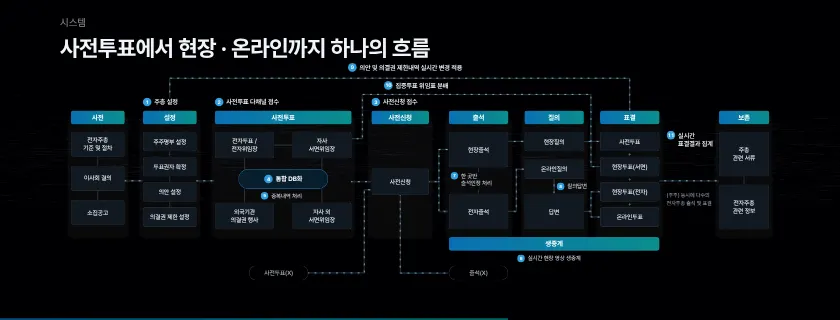
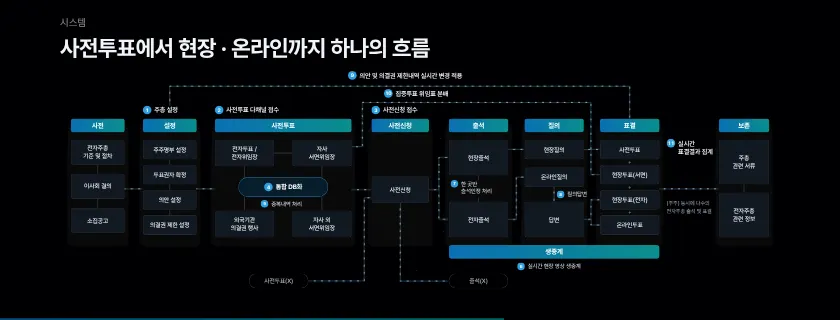
세션4 K19b 가운데 X 흰색, K22s 구성도 40px 아래로
Claude-Session: https://claude.ai/code/session_01Mn7NmyW5iujmmHnaRBFKBZ

diff --git a/sw.js b/sw.js
@@ -1,5 +1,5 @@
 /* 오프라인 캐시 — 온라인 주소(https)로 한 번 열면 모든 파일을 저장해 두고, 통신이 끊겨도 저장본으로 동작합니다. */
-const V='seminar-screen-11272107';
+const V='seminar-screen-11272108';
 const FILES=["./","assets/KakaoBigSans-Bold.woff2","assets/KakaoBigSans-Regular.woff2","assets/KakaoSmallSans-Bold.woff2","assets/KakaoSmallSans-Light.woff2","assets/KakaoSmallSans-Regular.woff2","assets/OrbitControls.js","assets/PretendardVariable.woff2","assets/attendees.js","assets/blue-bloom.html","assets/cong1.webp","assets/cong2.webp","assets/ds-bg.html","assets/four-states.html","assets/intro.mp4","assets/irk-white.svg","assets/irk-wordmark-white.svg","assets/kism-intro.mp4","assets/kism-white.svg","assets/ksmp-white.svg","assets/panel.js","assets/qa-online.js","assets/s2/img1.png","assets/s2/img2.png","assets/s2/img3.png","assets/s2/img4.png","assets/s4/aws.webp","assets/s4/callcenter.webp","assets/s4/chair-1.webp","assets/s4/chair-2.webp","assets/s4/chair-3.webp","assets/s4/conexus-word.webp","assets/s4/ctl-1.webp","assets/s4/cx-1.webp","assets/s4/cx-2.webp","assets/s4/cx-3.webp","assets/s4/cx-flow.mp4","assets/s4/cx-pop1.webp","assets/s4/cx-pop2.webp","assets/s4/cx-vote.mp4","assets/s4/cx-vote.webp","assets/s4/cxs-1.webp","assets/s4/insurance.webp","assets/s4/isms-t.webp","assets/s4/isms.webp","assets/s4/ismsp-t.webp","assets/s4/ismsp.webp","assets/s4/kosmos-white.png","assets/s4/ks-1.webp","assets/s4/ks-2.webp","assets/s4/ks-3.webp","assets/s4/ks-4.webp","assets/s4/ks-5.webp","assets/s4/ks-video.webp","assets/s4/live-1.webp","assets/s4/live-2.webp","assets/s4/live-3.webp","assets/s4/live-4.webp","assets/s4/live-5.webp","assets/s4/live-6.webp","assets/s4/live-7.webp","assets/s4/live-8.webp","assets/s4/logos.webp","assets/s4/ocr-1.webp","assets/s4/ocr-2.webp","assets/s4/ocr-3.webp","assets/s4/ocr-4.webp","assets/s4/ocr-5.webp","assets/s4/on-1.png","assets/s4/on-2.webp","assets/s4/on-3.webp","assets/s4/on-4.png","assets/s4/on-5.webp","assets/s4/onboard-1.webp","assets/s4/onboard-2.webp","assets/s4/privacy.webp","assets/s4/proxymity.svg","assets/s4/rehearsal.webp","assets/s4/streaming-korea.webp","assets/s4/tab-1.webp","assets/s4/tab-2.webp","assets/s4/team.webp","assets/sched.js","assets/screen-title-2.svg","assets/screen-title-b-text.svg","assets/screen-title-b.svg","assets/seat-banners.js","assets/seat-fascia.js","assets/seat-screen.js","assets/seatmap.js","assets/service-intro.mp4","assets/speaker-scott.webp","assets/speaker1-1.webp","assets/speaker2.webp","assets/speaker3-1.webp","assets/supabase.min.js","assets/three.min.js","assets/title-logos.svg","control.html","index-fs.html","index.html","kism.html","lobby/cuts.html","lobby/index.html","mc.html","session2.html","session4.html","sw.js","tools/s2_build.py","tools/s2_shell.html","assets/s3/p01.webp","assets/s3/p02.webp","assets/s3/p03.webp","assets/s3/p04.webp","assets/s3/p05.webp","assets/s3/p06.webp","assets/s3/p07.webp","assets/s3/p08.webp","assets/s3/p09.webp","assets/s3/p10.webp","assets/s3/p11.webp","assets/s3/p12.webp","assets/s3/p13.webp","assets/s3/p14.webp","assets/s3/p15.webp","assets/s3/p16.webp","assets/s3/p17.webp","assets/s3/p18.webp","assets/s3/p19.webp","assets/s3/p20.webp","assets/s3/p21.webp","assets/s3/p22.webp","assets/s3/p23.webp","assets/kism/photo-main.webp","assets/kism/photo-2.webp","assets/kism/photo-3.webp","assets/kism/photo-4.webp","assets/sound/countdown-tick.mp3","assets/sound/sfx-s3-part.mp3","assets/sound/sfx-s4-reveal.mp3","assets/sound/sfx-s5-proxymity.mp3","assets/sound/sfx-s6-chime.mp3","assets/sound/sfx-s7-close.mp3","assets/sound/opening-hit.mp3","assets/s4/kosmos-color.svg","assets/s4/ke-logo.png","assets/s4/ke-live.mp4","assets/kism/kwon-talk.mp4","assets/kism/manual-book.webp","kism-open.html","kism_16x9.html","led.html","assets/s4/cx-ops.mp4","assets/s4/cx-ops.webp","assets/s4/agent-app.mp4","assets/s4/kosmos-web.webp","assets/s4/ks-attend.mp4","assets/s4/ks-attend.webp","assets/s4/ks-switch.mp4","assets/s4/ks-switch.webp","assets/s4/ks-notify.mp4","assets/s4/ks-notify.webp","assets/s4/ks-vote.mp4","assets/s4/ks-vote.webp","assets/s4/ks-qna.mp4","assets/s4/ks-qna.webp","assets/s4/pc-map.webp","assets/s4/pc-map.mp4","assets/s4/agent-app.webp","assets/s4/k24b-bg.webp","session0.html","face.html","assets/face-link.js","assets/kism/photo-main-cut.webp","assets/s4/cx-chair.mp4","assets/s4/cx-chair.webp","assets/s4/cx-test.mp4","assets/s4/cx-test.webp","assets/s4/onboard-mgr.webp","assets/s4/proxymity-logo.png","assets/s4/k21-bg.webp","assets/s4/kosmos-admin-white.svg","assets/kism-intro-16x9.mp4","assets/seat-guide.html","assets/s4/app-icon-agent.svg","assets/ds-main.mp4","assets/s4/k2-agency.webp","assets/s4/k2-support.webp","assets/s4/thumbs/K00.webp","assets/s4/thumbs/K01.webp","assets/s4/thumbs/K02.webp","assets/s4/thumbs/K03.webp","assets/s4/thumbs/K04.webp","assets/s4/thumbs/K05.webp","assets/s4/thumbs/K06.webp","assets/s4/thumbs/K07.webp","assets/s4/thumbs/K08.webp","assets/s4/thumbs/K09.webp","assets/s4/thumbs/K10.webp","assets/s4/thumbs/K11.webp","assets/s4/thumbs/K12.webp","assets/s4/thumbs/K13.webp","assets/s4/thumbs/K14.webp","assets/s4/thumbs/K15.webp","assets/s4/thumbs/K16.webp","assets/s4/thumbs/K17.webp","assets/s4/thumbs/K18a.webp","assets/s4/thumbs/K18b.webp","assets/s4/thumbs/K18c.webp","assets/s4/thumbs/K19.webp","assets/s4/thumbs/K19b.webp","assets/s4/thumbs/K19c.webp","assets/s4/thumbs/K20.webp","assets/s4/thumbs/K21.webp","assets/s4/thumbs/K21b.webp","assets/s4/thumbs/K22s.webp","assets/s4/thumbs/K23.webp","assets/s4/thumbs/K23b.webp","assets/s4/thumbs/K24a.webp","assets/s4/thumbs/K24b.webp","assets/s4/thumbs/K24c.webp","assets/s4/thumbs/K25.webp","assets/s4/thumbs/K25b.webp","assets/s4/thumbs/K26.webp","assets/s4/thumbs/K27.webp","assets/s4/thumbs/K28a.webp","assets/s4/thumbs/K28b.webp","assets/s4/thumbs/K28c.webp","assets/s4/thumbs/K28d.webp","assets/s4/thumbs/K29.webp","assets/s4/thumbs/K30.webp","assets/s4/thumbs/K09b.webp","assets/s4/thumbs/K28e.webp","assets/s4/thumbs/K28p.webp","assets/s4/onsite-vote.mp4","assets/s4/onsite-vote.webp","assets/s4/rehearsal-site.webp","assets/qr-ask.svg"];
 self.addEventListener('install',e=>{e.waitUntil(caches.open(V).then(c=>c.addAll(FILES)).then(()=>self.skipWaiting()));});
 self.addEventListener('activate',e=>{e.waitUntil(caches.keys().then(ks=>Promise.all(ks.filter(k=>k!==V).map(k=>caches.delete(k)))).then(()=>self.clients.claim()));});

diff --git a/session4.html b/session4.html
@@ -2015,6 +2015,8 @@ html.r169 #K27 .sec-c{--k27y:560px}
 #K19b .cf{font-size:40px}
 /* 11/27 21:06 K11 x축 날짜 숫자 70px */
 #K11 .day{font-size:70px}
+/* 11/27 21:08 K22s 시스템 구성도 40px 더 아래로 */
+#K22s .zw{translate:0 80px}
 /* ═════ 16:9 버전 (?a=16x9, 11/27) ═════
    ※ 빔프로젝터(led.html?a=16x9) M7-7이 이 모드를 씀. 장을 고치면 ?a=16x9로도 확인하고, 21:8 원본 위치를 바꾸면 아래 html.r169 #Kxx 규칙도 같이 맞출 것.
       R169Z(묶음 축소) 장은 내용 범위를 자동으로 재서 배치하므로 대부분 따라감.
@@ -2984,9 +2986,9 @@ VIZ.kr24=(cv)=>{const g=cv.getContext('2d'),W=cv.width,H=cv.height;let t0=0;
 VIZ.xs=(cv)=>{const g=cv.getContext("2d"),W=cv.width,H=cv.height,N=380;/* K19b 인트로 × — K21 ∞처럼 점 입자가 X 두 획을 따라 흐름(파랑 → 청록) */
  const P=[...Array(N)].map((_,i)=>({k:i%2,u:Math.random(),o:(Math.random()-.5)*2,s:.002+Math.random()*.003,r:3+Math.random()*5.5}));
  const pt=(k,u)=>{const m=W*.16;return k?[m+(W-2*m)*u,m+(H-2*m)*u]:[W-m-(W-2*m)*u,m+(H-2*m)*u];};
- return{enter(){},draw(){g.clearRect(0,0,W,H);g.globalAlpha=.22;g.strokeStyle='#3aa0ea';g.lineWidth=4;g.lineCap='round';
+ return{enter(){},draw(){g.clearRect(0,0,W,H);g.globalAlpha=.22;g.strokeStyle='#F2F5FA';g.lineWidth=4;g.lineCap='round';
   for(const k of [0,1]){const[a,b]=pt(k,0),[c,d]=pt(k,1);g.beginPath();g.moveTo(a,b);g.lineTo(c,d);g.stroke();}
-  for(const q of P){q.u=(q.u+q.s)%1;const[x,y]=pt(q.k,q.u),w=q.o*16,f=Math.sin(q.u*Math.PI);g.fillStyle=mix(q.u);g.globalAlpha=(.35+.65*(1-Math.abs(q.o)))*(.25+.75*f);g.beginPath();g.arc(x+(q.k?-w:w)*.707,y+w*.707,q.r,0,7);g.fill();}
+  for(const q of P){q.u=(q.u+q.s)%1;const[x,y]=pt(q.k,q.u),w=q.o*16,f=Math.sin(q.u*Math.PI);g.fillStyle='#F2F5FA';g.globalAlpha=(.35+.65*(1-Math.abs(q.o)))*(.25+.75*f);g.beginPath();g.arc(x+(q.k?-w:w)*.707,y+w*.707,q.r,0,7);g.fill();}
   g.globalAlpha=1;}};};
 VIZ.inf=(cv)=>{const g=cv.getContext('2d'),W=cv.width,H=cv.height,N=620;
  const P=[...Array(N)].map(()=>({u:Math.random(),o:(Math.random()-.5)*2,s:.0009+Math.random()*.0016,r:2.4+Math.random()*5.2}));
